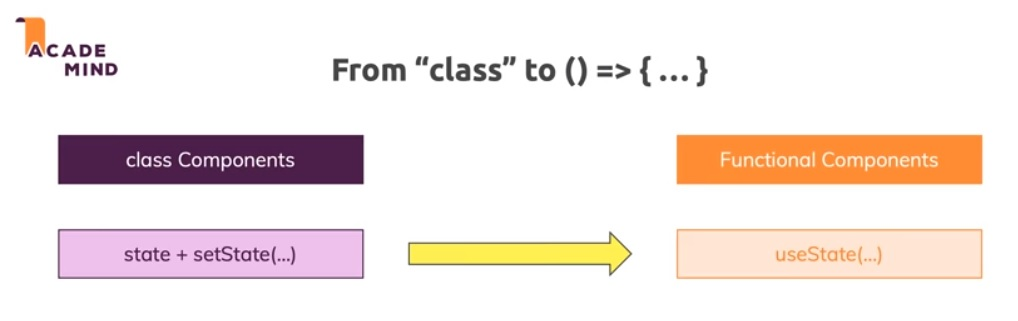
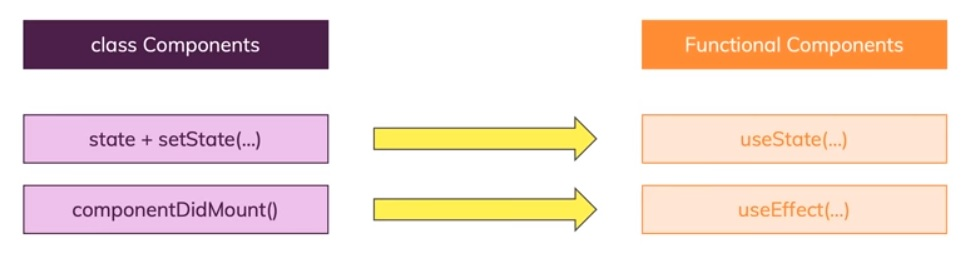
(Cannot compile yet) Move componentDidMount logic into useEffect

diff --git a/src/components/CharPicker.js b/src/components/CharPicker.js
@@ -1,4 +1,4 @@
-import React, { useState } from 'react';
+import React, { useState, useEffect} from 'react';
 
 import './CharPicker.css';
 
@@ -8,29 +8,52 @@ const CharPicker = props => {
   const [loadedChars, setLoadedChars] = useState([]);
   const [isLoading, setIsLoading] = useState(false);
 
-  componentDidMount() {
+  // componentDidMount() {
+  //   this.setState({ isLoading: true });
+  //   fetch('https://swapi.co/api/people')
+  //     .then(response => {
+  //       if (!response.ok) {
+  //         throw new Error('Failed to fetch.');
+  //       }
+  //       return response.json();
+  //     })
+  //     .then(charData => {
+  //       const selectedCharacters = charData.results.slice(0, 5);
+  //       this.setState({
+  //         characters: selectedCharacters.map((char, index) => ({
+  //           name: char.name,
+  //           id: index + 1
+  //         })),
+  //         isLoading: false
+  //       });
+  //     })
+  //     .catch(err => {
+  //       console.log(err);
+  //     });
+  // }
+  useEffect(() => {
     this.setState({ isLoading: true });
     fetch('https://swapi.co/api/people')
-      .then(response => {
-        if (!response.ok) {
-          throw new Error('Failed to fetch.');
-        }
-        return response.json();
-      })
-      .then(charData => {
-        const selectedCharacters = charData.results.slice(0, 5);
-        this.setState({
-          characters: selectedCharacters.map((char, index) => ({
-            name: char.name,
-            id: index + 1
-          })),
-          isLoading: false
+        .then(response => {
+          if (!response.ok) {
+            throw new Error('Failed to fetch.');
+          }
+          return response.json();
+        })
+        .then(charData => {
+          const selectedCharacters = charData.results.slice(0, 5);
+          this.setState({
+            characters: selectedCharacters.map((char, index) => ({
+              name: char.name,
+              id: index + 1
+            })),
+            isLoading: false
+          });
+        })
+        .catch(err => {
+          console.log(err);
         });
-      })
-      .catch(err => {
-        console.log(err);
-      });
-  }
+  });
 
   // render() {
   //   let content = <p>Loading characters...</p>;
